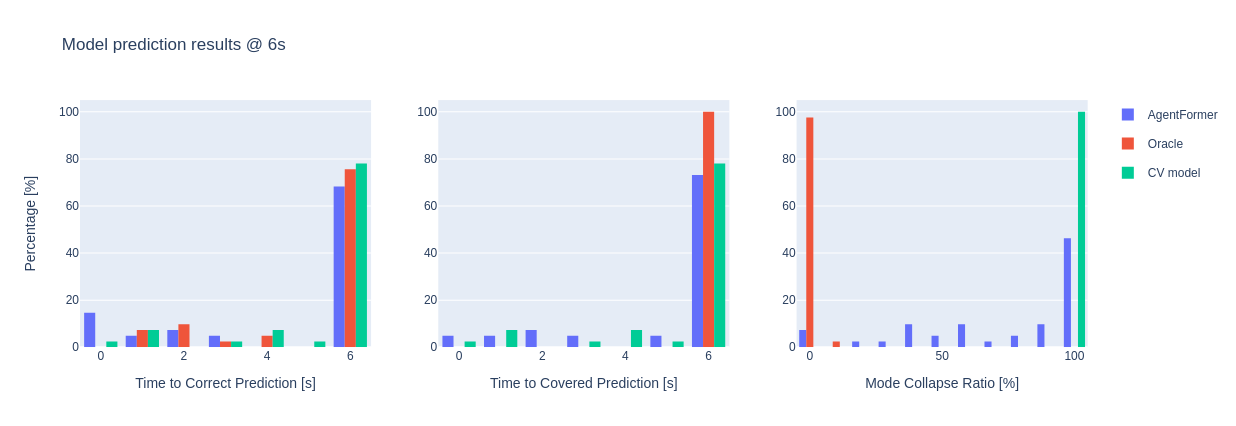
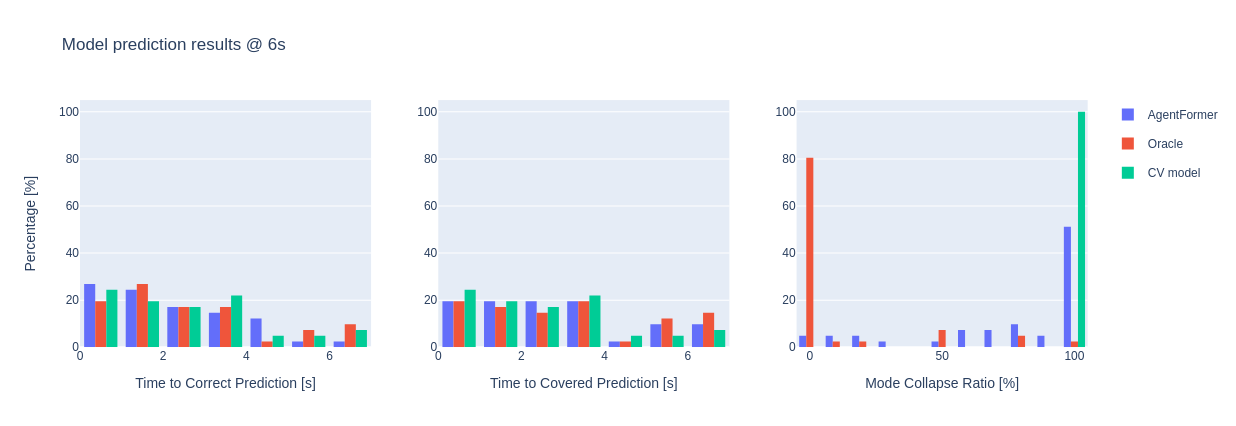
test new calculaatio

diff --git a/plot_modemetrics_time_hist_V2.py b/plot_modemetrics_time_hist_V2.py
@@ -34,8 +34,8 @@ elif Hpred_time ==3: # time not frames, so 3s == 6f
            ]
     models_result_paths = [f'mode_metric_results/interaction_mode_metrics_AF_val_Tpred_6f_{K_Modes}samples.csv',
                         f'mode_metric_results/interaction_mode_metrics_oracle_val_Tpred_6f_{K_Modes}samples.csv',
-                        'mode_metric_results/interaction_mode_metrics_cv_val_Tpred_6f.csv',
-                        'mode_metric_results/interaction_mode_metrics_CTT_val_Tpred_6f.csv',
+                        f'mode_metric_results/interaction_mode_metrics_cv_val_Tpred_6f_{K_Modes}samples.csv',
+                        f'mode_metric_results/interaction_mode_metrics_CTT_val_Tpred_6f_{K_Modes}samples.csv',
                         ]
 else:
     raise NameError
@@ -48,24 +48,28 @@ consistencies = []
 for model, path in zip(models, models_result_paths):
     df_temp = pd.read_csv(path).dropna()
     df_temp['model'] = model
-    df_temp['metric t2cor'] = df_temp.apply(lambda row: row['t2cor'] if row['t2cor'] < row['pred_time'] else Hpred_time, axis=1)
-    df_temp['metric t2cov'] = df_temp.apply(lambda row: row['t2cov'] if row['t2cov'] < row['pred_time'] else Hpred_time, axis=1)
+
+
+    df_temp['metric t2cor'] = df_temp['t2cor']   #.apply(lambda row: row['t2cor'] if row['t2cor'] < row['pred_time'] else Hpred_time, axis=1)
+    df_temp['metric t2cov'] = df_temp['t2cov']  #.apply(lambda row: row['t2cov'] if row['t2cov'] < row['pred_time'] else Hpred_time, axis=1)
+
     dfs.append(df_temp)
 
     # calc stats
-    df_notcorrect = df_temp[df_temp['metric t2cor'] < Hpred_time]
+    df_notcorrect = df_temp[df_temp['metric t2cor'] < df_temp['pred_time']]
     df_0scor = df_temp[df_temp['metric t2cor'] ==0]
-    df_notcovered = df_temp[df_temp['metric t2cov'] < Hpred_time]
+    df_notcovered = df_temp[df_temp['metric t2cov'] < df_temp['pred_time']]
     df_0scov = df_temp[df_temp['metric t2cov'] ==0]
 
     N_interactions = len(df_temp)
+    mean_pred_time = df_temp['pred_time'].mean()
     perc_not_correct = round(100 * len(df_notcorrect) / len(df_temp),1)
     perc_correct = round(100 - perc_not_correct, 1)
-    avg_t2cor = df_notcorrect['t2cor'].mean()
+    avg_t2cor = df_temp['t2cor'].mean()
     perc_t2cor_0s = round(100*len(df_0scor)/len(df_temp), 1)
     perc_not_covered = round(100 * len(df_notcovered) / len(df_temp),1)
     perc_covered = round(100 - perc_not_covered, 1)
-    avg_t2cov = df_notcovered['t2cov'].mean()
+    avg_t2cov = df_temp['t2cov'].mean()
     perc_t2cov_0s = round(100*len(df_0scov)/len(df_temp), 1)
 
     r_pred_consistency = len(df_temp[df_temp.prediction_consistency == True]) / len(df_temp)
@@ -76,6 +80,7 @@ for model, path in zip(models, models_result_paths):
     # print stats
     print(f'MODEL: {model}')
     print(f'{N_interactions} interactions in dataset')
+    print(f"mean pred time = {mean_pred_time}s")
     print(f"{perc_not_correct}% of the intentions not correct, with {avg_t2cor}s as average time-to-correct-mode-prediction")
     print(f"{perc_t2cor_0s}% of the intentions not correctly predicted before inevitable homotopy collapse (t2cor = 0s)")
 
